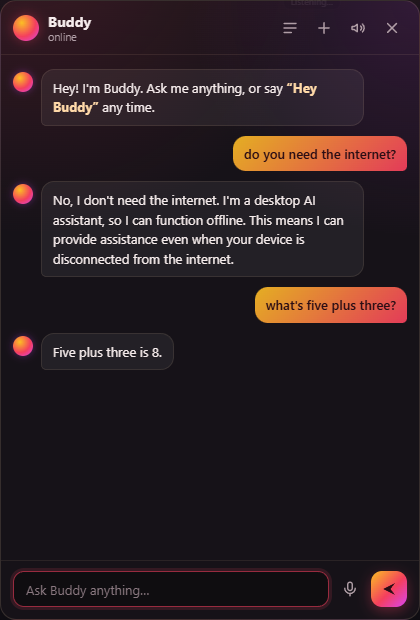
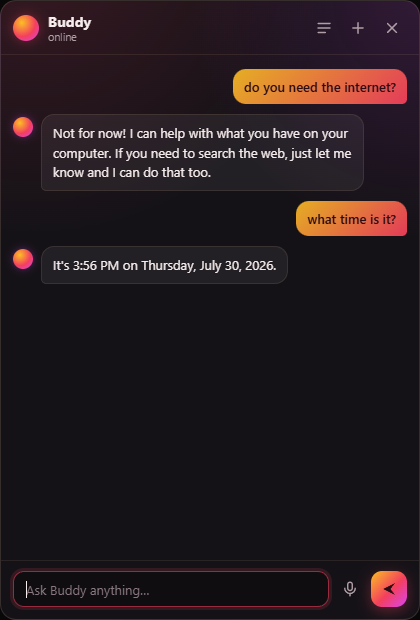
Bring the landing page up to date with the app it describes
The page still described a version from several releases ago: Llama 3.2 as the
model, "three larger models are a click away", a greeting to sit through, and a
screenshot whose header still had the voice-replies button in it.

  * The four features are now the true ones: a library of thirteen models that
    says which fit your machine, a voice you can talk over, a wake word with no
    greeting in front of it, and the fact that Buddy can open pages and write
    files when you allow it.
  * The privacy table gains a Your files row -- no access at all by default,
    folders you pick and nowhere else if you turn it on -- and the cloud column
    now says what it actually is: any API key, not one named provider.
  * The screenshot was retaken from the real app, showing real answers rather
    than a mock-up. Its header now matches the shipped one.
  * Three gigabytes, not one, for the first-launch download.

Design stays where it was -- one accent, no decoration -- with a rule over each
feature column so the four read as a set, a hover state on the download cards,
a selection colour drawn from the orb, a dark scrollbar, and a little more air
between sections once the screen is wide enough to spare it.

diff --git a/docs/index.html b/docs/index.html
@@ -6,7 +6,7 @@
     <title>Buddy — a local AI companion</title>
     <meta
       name="description"
-      content="Buddy is an AI companion that lives on your desktop as a small orb. No API key and no account — it brings its own model, voice and ears, and runs entirely on your computer."
+      content="Buddy is an AI companion that lives on your desktop as a small orb. No API key and no account — it brings its own model, voice and ears, answers to its name, and runs entirely on your computer."
     />
     <meta name="theme-color" content="#0a0a0b" />
     <link rel="icon" href="orb.svg" type="image/svg+xml" />
@@ -38,9 +38,9 @@
             <span class="orb orb-lg" aria-hidden="true"></span>
             <h1>An AI that lives on your desktop, not on someone's server.</h1>
             <p class="lede">
-              A small orb that sits above your other windows. Click it, or say “Hey Buddy”, and it answers
-              out loud. No API key, no account, no sign-in — it brings its own model, its own voice and its
-              own ears, and keeps working with the network unplugged.
+              A small orb that sits above your other windows. Say “Hey Buddy” and it listens straight away;
+              talk over its answer and it stops. No API key, no account, no sign-in — it brings its own
+              model, its own voice and its own ears, and keeps working with the network unplugged.
             </p>
             <p class="actions">
               <a class="btn btn-solid" id="hero-download" href="#download">Download</a>
@@ -48,7 +48,7 @@
             </p>
 
             <dl class="specs">
-              <div><dt>Thinks with</dt><dd>Llama 3.2</dd></div>
+              <div><dt>Thinks with</dt><dd>Qwen 3</dd></div>
               <div><dt>Speaks with</dt><dd>Kokoro, 28 voices</dd></div>
               <div><dt>Listens with</dt><dd>Whisper</dd></div>
               <div><dt>Sends home</dt><dd>nothing</dd></div>
@@ -60,7 +60,7 @@
               src="buddy-panel.png"
               width="420"
               height="620"
-              alt="Buddy's chat panel. Asked whether it needs the internet, it answers: no, it is a desktop assistant and can function offline."
+              alt="Buddy's chat panel. Asked whether it needs the internet, it answers that it does not, and offers to search the web if asked. Asked the time, it gives the correct time and date."
               decoding="async"
             />
           </figure>
@@ -75,29 +75,31 @@
             <div class="item">
               <h3>Answers without asking anyone</h3>
               <p>
-                Llama 3.2 runs inside the app through llama.cpp. Three larger models are a click away, and an
-                Ollama you already run shows up beside them.
+                A model runs inside the app through llama.cpp. Thirteen are a click away, from 0.6 GB up, and
+                the list says which ones your machine can actually hold. An Ollama you already run appears
+                beside them.
               </p>
             </div>
             <div class="item">
-              <h3>Speaks in a real voice</h3>
+              <h3>Speaks, and stops when you do</h3>
               <p>
-                Not the robotic one your operating system ships with. Kokoro generates the speech on your own
-                CPU, with 28 voices to choose between.
+                Kokoro generates the speech on your own CPU, in one of 28 voices — not the robotic one your
+                operating system ships with. Start talking over it and it stops to listen, the way a person
+                would.
               </p>
             </div>
             <div class="item">
               <h3>Answers to its name</h3>
               <p>
                 Whisper listens for “Hey Buddy” on-device and replies at the orb — no window opens over your
-                work. Ask in the same breath and it skips the pleasantries.
+                work. There is no greeting to sit through; it starts listening the moment it hears you.
               </p>
             </div>
             <div class="item">
-              <h3>Keeps your conversations</h3>
+              <h3>Does things, if you let it</h3>
               <p>
-                Saved to your disk as readable JSON. Browse them, reopen them, delete them. None of it is
-                uploaded anywhere.
+                Open a page, run a search, write to a file. Off until you switch it on, files are limited to
+                folders you pick by hand, and every action is written into the chat as it happens.
               </p>
             </div>
           </div>
@@ -121,18 +123,23 @@
                 <tbody>
                   <tr>
                     <th scope="row">Thinking</th>
-                    <td>Llama 3.2, in the app</td>
-                    <td>Ollama, a cloud API</td>
+                    <td>Qwen 3, in the app</td>
+                    <td>12 other models, Ollama, any API key</td>
                   </tr>
                   <tr>
                     <th scope="row">Speaking</th>
                     <td>Kokoro, in the app</td>
-                    <td>your OS's voices, a cloud API</td>
+                    <td>your OS's voices, a cloud voice</td>
                   </tr>
                   <tr>
                     <th scope="row">Listening</th>
                     <td>Whisper, in the app</td>
-                    <td>your own Whisper server, a cloud API, off</td>
+                    <td>your own Whisper server, a cloud service, off</td>
+                  </tr>
+                  <tr>
+                    <th scope="row">Your files</th>
+                    <td>no access at all</td>
+                    <td>folders you pick, and nowhere else</td>
                   </tr>
                   <tr>
                     <th scope="row">Your chats</th>
@@ -147,18 +154,20 @@
           <div class="split-side">
             <p>
               Buddy has three jobs, and out of the box all three happen on your computer. You can move any of
-              them to a cloud API. Nothing asks you to.
+              them to a cloud provider — paste a key from Anthropic, OpenAI, Groq and the rest, and Buddy
+              works out whose it is. Nothing asks you to.
             </p>
             <p>
-              The exception is the first launch, which downloads the model, the voice and the ears — about a
-              gigabyte in total, once. After that you can unplug the network and Buddy carries on. Please do
-              check. No telemetry, no account.
+              The exception is the first launch, which downloads the model, the voice and the ears — about
+              three gigabytes in total, once. After that you can unplug the network and Buddy carries on.
+              Please do check. No telemetry, no account.
             </p>
             <p class="aside">
-              Point a job at a cloud API and that job stops being private: those messages go to the provider
-              to be processed. What stays true either way is that there is no Buddy server and no proxy —
-              nothing of yours passes through us, because there is no “us” in the path. Setting listening to
-              <em>off</em> means the microphone is never opened at all.
+              Point a job at a cloud provider and that job stops being private: those messages go to them to
+              be processed. What stays true either way is that there is no Buddy server and no proxy —
+              nothing of yours passes through us, because there is no “us” in the path. Your key is stored on
+              your machine and sent only to the provider it belongs to. Setting listening to <em>off</em>
+              means the microphone is never opened at all.
             </p>
           </div>
         </div>

diff --git a/docs/styles.css b/docs/styles.css
@@ -48,6 +48,18 @@ a {
   text-decoration: none;
 }
 
+/* The orb is the only colour on the page; let it tint the selection too. */
+::selection {
+  background: rgba(244, 63, 94, 0.3);
+  color: #fff;
+}
+
+/* A dark page with a light scrollbar looks like a bug on Windows. */
+html {
+  color-scheme: dark;
+  scrollbar-color: rgba(255, 255, 255, 0.16) transparent;
+}
+
 h1,
 h2,
 h3 {
@@ -331,6 +343,13 @@ code {
   gap: 30px 36px;
 }
 
+/* A rule over each column. It reads as a set of four rather than four
+   paragraphs that happen to be side by side, and costs one line. */
+.item {
+  padding-top: 18px;
+  border-top: 1px solid var(--line);
+}
+
 .item h3 {
   font-size: 15.5px;
   margin-bottom: 7px;
@@ -422,6 +441,12 @@ tbody tr:last-child td {
   padding: 20px;
   border: 1px solid var(--line-soft);
   border-radius: 12px;
+  transition: border-color 130ms ease, background 130ms ease;
+}
+
+.dl-card:hover {
+  border-color: var(--line);
+  background: rgba(255, 255, 255, 0.02);
 }
 
 .dl-card.is-yours {
@@ -499,7 +524,11 @@ tbody tr:last-child td {
 
 @media (min-width: 1000px) {
   .hero {
-    padding: 72px 0 80px;
+    padding: 76px 0 84px;
+  }
+  /* More air between sections once there is room for it. */
+  .band {
+    padding: 64px 0;
   }
   /* Copy on the left, the app itself on the right. */
   .hero-grid {
